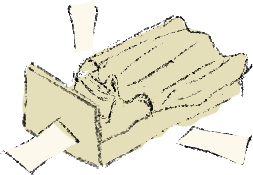
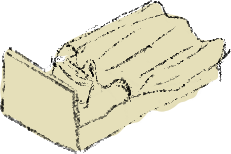
Add shake

diff --git a/Assets/Codes/ShooControllerV0.cs b/Assets/Codes/ShooControllerV0.cs
@@ -16,6 +16,9 @@ public class ShooControllerV0 : MonoBehaviour, IPointerClickHandler
     private Sprite originalSprite;
     private AudioSource audioSource;
     public AudioClip soundEffect;
+    public bool shake;
+    public float shakeAmplitude = 0.2f;
+    public float shakeDuration = 0.5f;
 
     void Start()
     {
@@ -50,6 +53,10 @@ public class ShooControllerV0 : MonoBehaviour, IPointerClickHandler
     IEnumerator Activate()
     {
         audioSource.PlayOneShot(soundEffect);
+        if (shake)
+        {
+            StartCoroutine(Shake());
+        }
         if (effectObject)
         {
             effectObject.SetActive(true);
@@ -67,5 +74,24 @@ public class ShooControllerV0 : MonoBehaviour, IPointerClickHandler
         {
             spriteRenderer.sprite = originalSprite;
         }
+    }
+
+    IEnumerator Shake()
+    {
+        Vector3 originalPos = transform.localPosition;
+
+        float elapsed = 0f;
+        while (elapsed < shakeDuration)
+        {
+            float x = UnityEngine.Random.Range(-1f, 1f) * shakeAmplitude;
+            float y = UnityEngine.Random.Range(-1f, 1f) * shakeAmplitude;
+
+            transform.localPosition = new Vector3(originalPos.x + x, originalPos.y + y, originalPos.z);
+
+            elapsed += Time.deltaTime;
+            yield return null;
+        }
+
+        transform.localPosition = originalPos;
     }
 }
